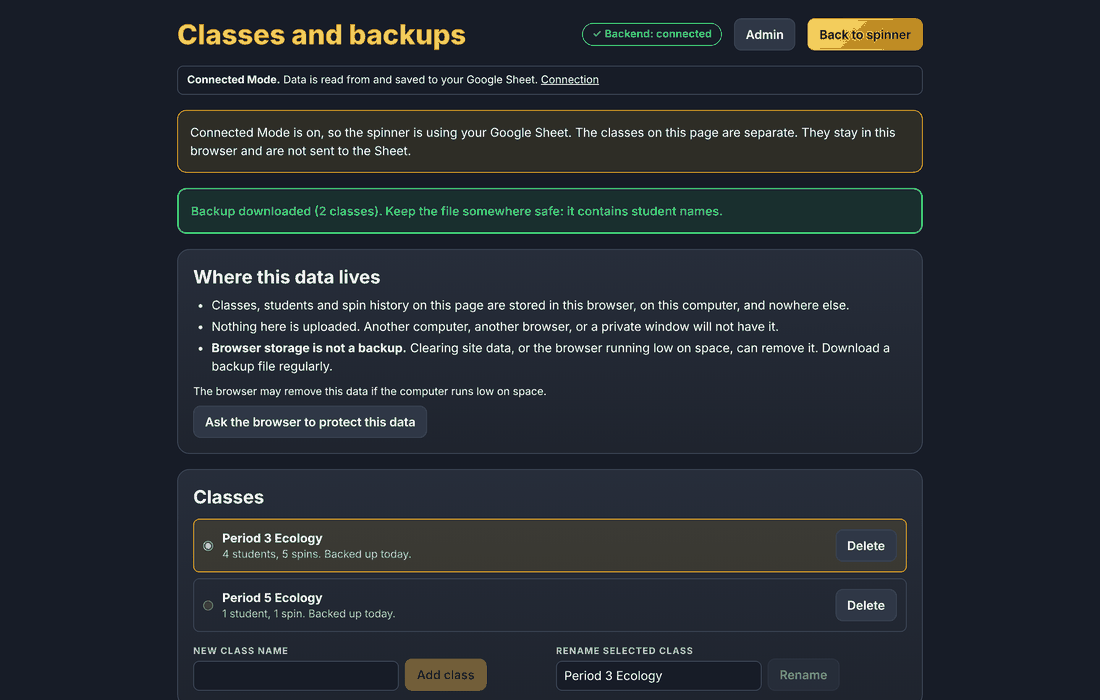
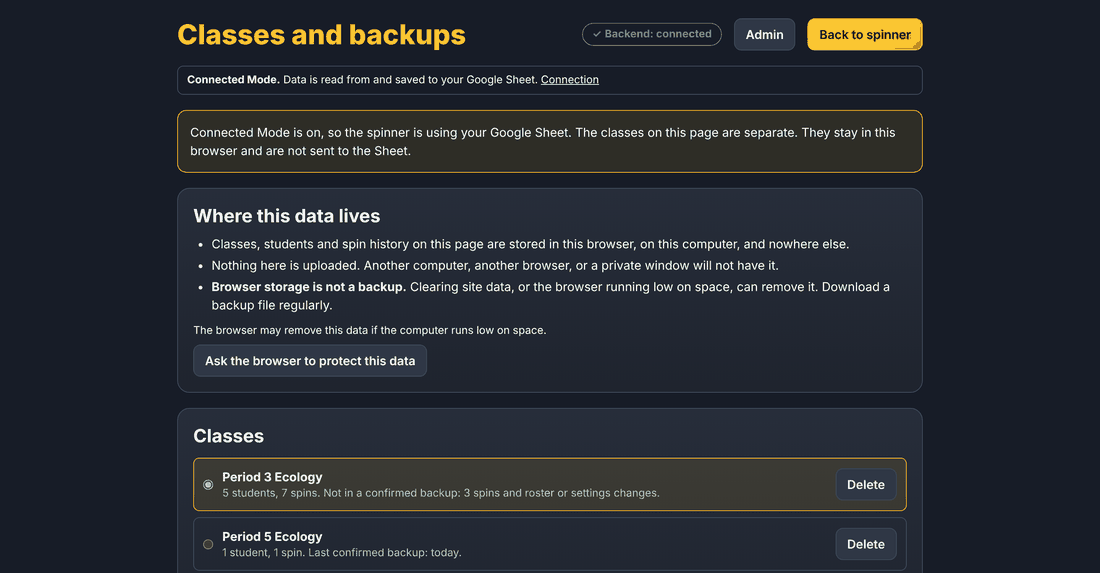
Keep the Classes page status line and rename box current; refresh screenshots
- The status line at the top of the Classes page re-reads whenever the class
  details are re-read, so it agrees with the class list after a spin logged
  in another tab.
- The rename box follows the stored name of the selected class when it
  changes underneath the page (restore, undo, another tab) instead of
  offering the previous name back.
- Browser suite: assertions for both, and two more screenshot points.
- docs/screenshots: Local Mode images regenerated with the confirmed-backup
  wording, plus the backup confirmation prompt and a refused stale delete.
  Invented students only.

Claude-Session: https://claude.ai/code/session_0168zUyrHCqAMneN6DCWMYC6

Changed region(s): [[0.1545, 0.0, 0.8655, 1.0]]

diff --git a/src/pages/ClassesPage.tsx b/src/pages/ClassesPage.tsx
@@ -62,6 +62,8 @@ export const ClassesPage = () => {
   const [notice, setNotice] = useState<Notice>(null);
   const [busy, setBusy] = useState(false);
   const [info, setInfo] = useState<Record<string, ClassInfo>>({});
+  /** Goes up each time the details below are re-read, so the status line at the top re-reads too. */
+  const [detailsRevision, setDetailsRevision] = useState(0);
   const [recovery, setRecovery] = useState<RecoveryPoint[]>([]);
   const [protectedStorage, setProtectedStorage] = useState<boolean | null>(null);
   /** Bumped when a change fails, so roster fields snap back to what is actually stored. */
@@ -85,6 +87,14 @@ export const ClassesPage = () => {
 
   const [clearText, setClearText] = useState('');
 
+  // If the stored name of the selected class changes underneath the page (a restore, an undo,
+  // another tab), the rename box follows it instead of offering the old name back.
+  const [nameShown, setNameShown] = useState(workspace.name);
+  if (nameShown !== workspace.name) {
+    setNameShown(workspace.name);
+    setRenameTo(workspace.name);
+  }
+
   // Reset the per-class forms when another class is selected (state adjusted during render).
   const [formsFor, setFormsFor] = useState(workspace.id);
   if (formsFor !== workspace.id) {
@@ -104,6 +114,7 @@ export const ClassesPage = () => {
     }
     setInfo(next);
     setRecovery(await store.listRecoveryPoints());
+    setDetailsRevision((n) => n + 1);
   }, [store]);
 
   // Also re-read whenever the list of classes on screen changes.
@@ -368,7 +379,7 @@ export const ClassesPage = () => {
         </div>
       </header>
 
-      <StorageBadge />
+      <StorageBadge revision={detailsRevision} />
 
       {mode === 'connected' && (
         <p className="rounded-xl border border-sun bg-sun/10 p-4" data-testid="classes-connected-note">
